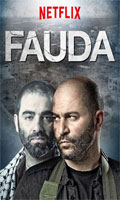
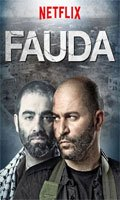
resize images

Changed region(s): [[0.3, 0.0, 0.675, 0.12]]

diff --git a/public/index.html b/public/index.html
@@ -3,8 +3,8 @@
 <meta name="generator" content="Hugo 0.37.1" />
 
 
-<title>הנמלטים פרק 1 - Dramakings</title>
-<meta property="og:title" content="הנמלטים פרק 1 - Dramakings">
+<title>שובר שורות פרק 1 - Dramakings</title>
+<meta property="og:title" content="שובר שורות פרק 1 - Dramakings">
 
 
 

diff --git a/public/page/about/index.html b/public/page/about/index.html
@@ -3,8 +3,8 @@
 <meta name="generator" content="Hugo 0.37.1" />
 
 
-<title>הנמלטים פרק 1 - Dramakings</title>
-<meta property="og:title" content="הנמלטים פרק 1 - Dramakings">
+<title>שובר שורות פרק 1 - Dramakings</title>
+<meta property="og:title" content="שובר שורות פרק 1 - Dramakings">
 
 
 

diff --git a/public/page/books/index.html b/public/page/books/index.html
@@ -3,8 +3,8 @@
 <meta name="generator" content="Hugo 0.37.1" />
 
 
-<title>הנמלטים פרק 1 - Dramakings</title>
-<meta property="og:title" content="הנמלטים פרק 1 - Dramakings">
+<title>שובר שורות פרק 1 - Dramakings</title>
+<meta property="og:title" content="שובר שורות פרק 1 - Dramakings">
 
 
 

diff --git a/public/page/breaking-bad/index.html b/public/page/breaking-bad/index.html
@@ -3,8 +3,8 @@
 <meta name="generator" content="Hugo 0.37.1" />
 
 
-<title>הנמלטים פרק 1 - Dramakings</title>
-<meta property="og:title" content="הנמלטים פרק 1 - Dramakings">
+<title>שובר שורות פרק 1 - Dramakings</title>
+<meta property="og:title" content="שובר שורות פרק 1 - Dramakings">
 
 
 

diff --git a/public/page/breaking-bad01/index.html b/public/page/breaking-bad01/index.html
@@ -3,8 +3,8 @@
 <meta name="generator" content="Hugo 0.37.1" />
 
 
-<title>הנמלטים פרק 1 - Dramakings</title>
-<meta property="og:title" content="הנמלטים פרק 1 - Dramakings">
+<title>שובר שורות פרק 1 - Dramakings</title>
+<meta property="og:title" content="שובר שורות פרק 1 - Dramakings">
 
 
 

diff --git a/public/page/dexter/index.html b/public/page/dexter/index.html
@@ -3,8 +3,8 @@
 <meta name="generator" content="Hugo 0.37.1" />
 
 
-<title>הנמלטים פרק 1 - Dramakings</title>
-<meta property="og:title" content="הנמלטים פרק 1 - Dramakings">
+<title>שובר שורות פרק 1 - Dramakings</title>
+<meta property="og:title" content="שובר שורות פרק 1 - Dramakings">
 
 
 

diff --git a/public/page/dexter01/index.html b/public/page/dexter01/index.html
@@ -3,8 +3,8 @@
 <meta name="generator" content="Hugo 0.37.1" />
 
 
-<title>הנמלטים פרק 1 - Dramakings</title>
-<meta property="og:title" content="הנמלטים פרק 1 - Dramakings">
+<title>שובר שורות פרק 1 - Dramakings</title>
+<meta property="og:title" content="שובר שורות פרק 1 - Dramakings">
 
 
 

diff --git a/public/page/episodes/index.html b/public/page/episodes/index.html
@@ -3,8 +3,8 @@
 <meta name="generator" content="Hugo 0.37.1" />
 
 
-<title>הנמלטים פרק 1 - Dramakings</title>
-<meta property="og:title" content="הנמלטים פרק 1 - Dramakings">
+<title>שובר שורות פרק 1 - Dramakings</title>
+<meta property="og:title" content="שובר שורות פרק 1 - Dramakings">
 
 
 

diff --git a/public/page/fauda/index.html b/public/page/fauda/index.html
@@ -3,8 +3,8 @@
 <meta name="generator" content="Hugo 0.37.1" />
 
 
-<title>הנמלטים פרק 1 - Dramakings</title>
-<meta property="og:title" content="הנמלטים פרק 1 - Dramakings">
+<title>שובר שורות פרק 1 - Dramakings</title>
+<meta property="og:title" content="שובר שורות פרק 1 - Dramakings">
 
 
 

diff --git a/public/page/prison-break/index.html b/public/page/prison-break/index.html
@@ -3,8 +3,8 @@
 <meta name="generator" content="Hugo 0.37.1" />
 
 
-<title>הנמלטים פרק 1 - Dramakings</title>
-<meta property="og:title" content="הנמלטים פרק 1 - Dramakings">
+<title>שובר שורות פרק 1 - Dramakings</title>
+<meta property="og:title" content="שובר שורות פרק 1 - Dramakings">
 
 
 

diff --git a/public/page/prison-break01/index.html b/public/page/prison-break01/index.html
@@ -3,8 +3,8 @@
 <meta name="generator" content="Hugo 0.37.1" />
 
 
-<title>הנמלטים פרק 1 - Dramakings</title>
-<meta property="og:title" content="הנמלטים פרק 1 - Dramakings">
+<title>שובר שורות פרק 1 - Dramakings</title>
+<meta property="og:title" content="שובר שורות פרק 1 - Dramakings">
 
 
 

diff --git a/public/post/מה-אני-חושב-על-מסטרקלאס-של-מאמט/index.html b/public/post/מה-אני-חושב-על-מסטרקלאס-של-מאמט/index.html
@@ -3,8 +3,8 @@
 <meta name="generator" content="Hugo 0.37.1" />
 
 
-<title>הנמלטים פרק 1 - Dramakings</title>
-<meta property="og:title" content="הנמלטים פרק 1 - Dramakings">
+<title>שובר שורות פרק 1 - Dramakings</title>
+<meta property="og:title" content="שובר שורות פרק 1 - Dramakings">
 
 
 
